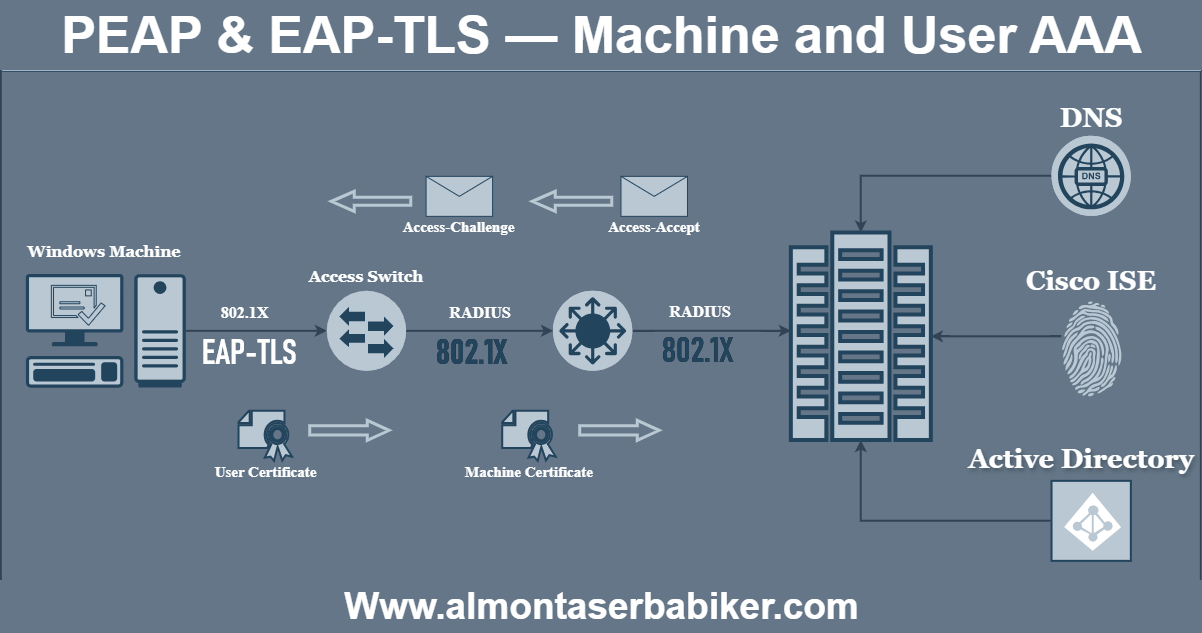
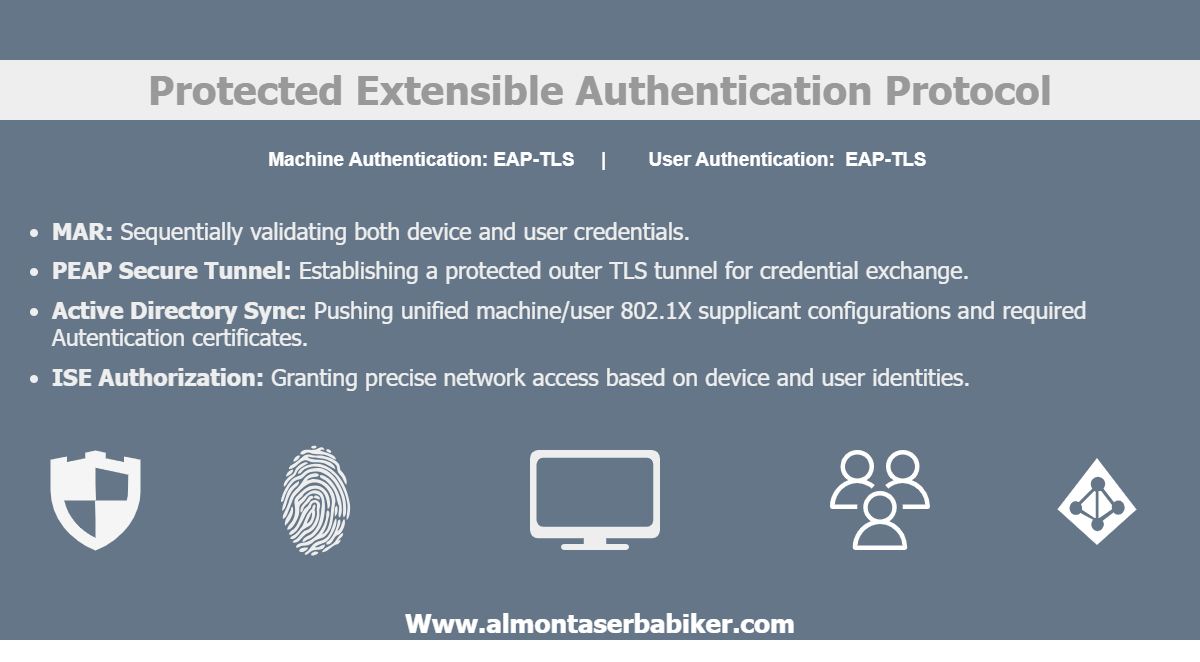
Images Change and compress

diff --git a/_posts/2026-09-03-EAP-Chaining-With-TEAP.md b/_posts/2026-09-03-EAP-Chaining-With-TEAP.md
@@ -1,0 +1,11 @@
+---
+title: EAP-Chaining Using TEAP 
+date: 2026-08-07 12:25:00 +0300
+categories: [Labs, Cisco ISE]
+tags: [networking, Network Engineering, 802.1x, MAB, EAP_Chaining, TEAP, Machine_and_user_authentication,security, cisco ISE, MSCHAPv2, EAP, EAP-TLS,  Network Access Control, AAA, Network Access Control]
+image:
+  path: /assets/img/post_covers/TEAP.png
+pin: false
+---
+
+
